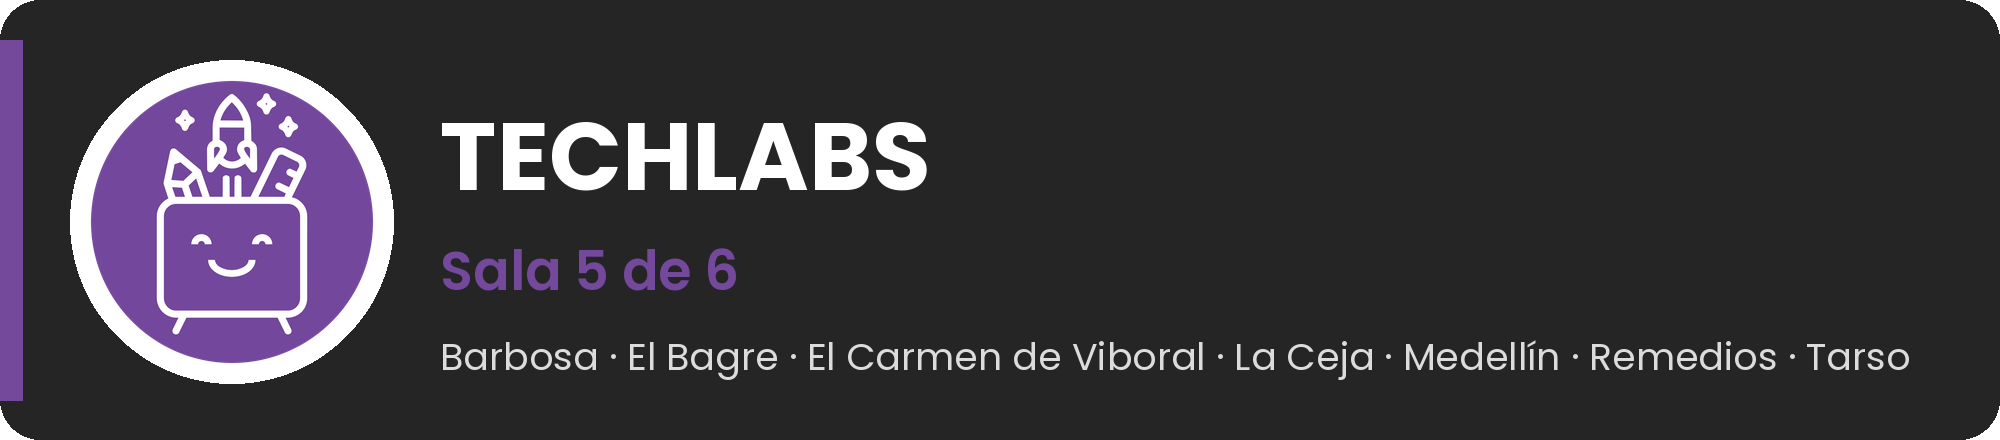
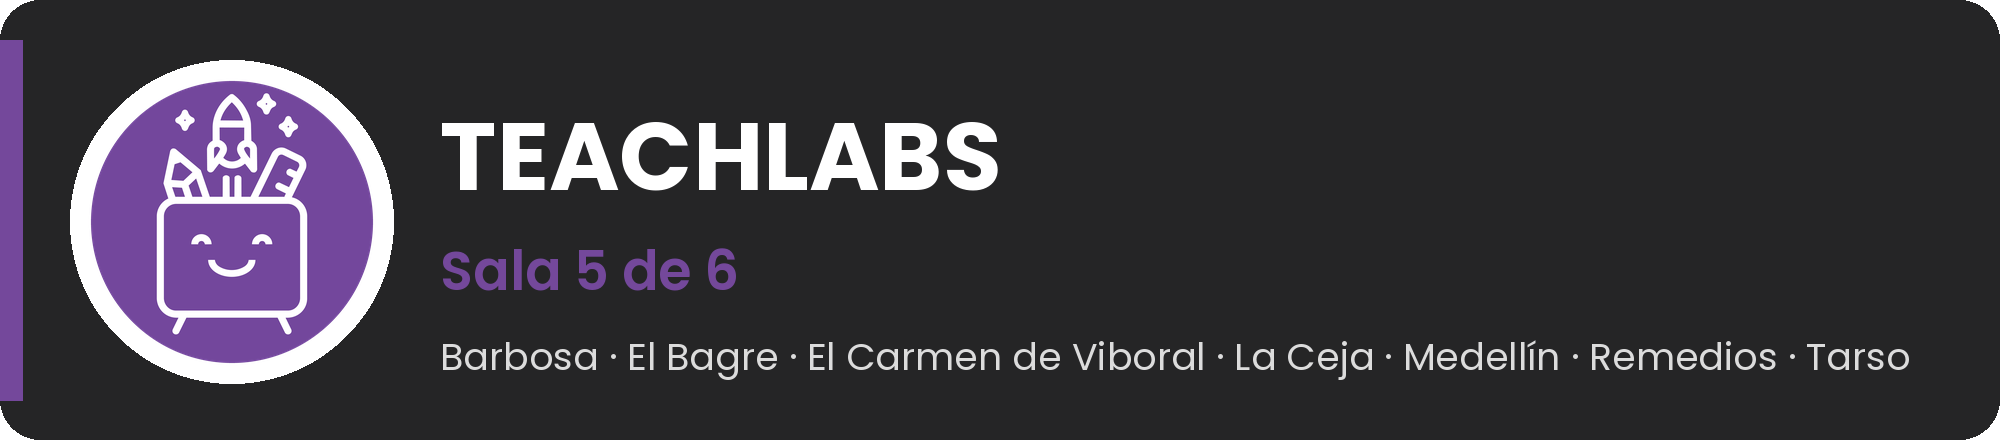
Corrige nombre: TeachLabs
Claude-Session: https://claude.ai/code/session_01GzHtwjD8CKoxuP3vnSeZWo

Changed region(s): [[0.279, 0.2659, 0.496, 0.4432]]

diff --git a/index.html b/index.html
@@ -55,7 +55,7 @@
 <script src="https://cdn.jsdelivr.net/npm/aframe@1.6.0/dist/aframe-v1.6.0.min.js"></script>
 <script>
 // datos de las salas (generado)
-const ROOMS = [{"name": "Nuevas Tecnologías", "color": "#0AABCC", "territorios": "El Carmen de Viboral · La Ceja · Medellín · Nuquí", "photos": [{"src": "img/r0_00.jpg", "ar": 0.75}, {"src": "img/r0_01.jpg", "ar": 0.75}, {"src": "img/r0_02.jpg", "ar": 0.75}, {"src": "img/r0_03.jpg", "ar": 0.75}, {"src": "img/r0_04.jpg", "ar": 1.3333}, {"src": "img/r0_05.jpg", "ar": 0.75}, {"src": "img/r0_06.jpg", "ar": 0.75}, {"src": "img/r0_07.jpg", "ar": 0.75}, {"src": "img/r0_08.jpg", "ar": 0.75}, {"src": "img/r0_09.jpg", "ar": 0.75}, {"src": "img/r0_10.jpg", "ar": 0.75}, {"src": "img/r0_11.jpg", "ar": 1.7766}, {"src": "img/r0_12.jpg", "ar": 0.75}, {"src": "img/r0_13.jpg", "ar": 0.75}, {"src": "img/r0_14.jpg", "ar": 1.3333}, {"src": "img/r0_15.jpg", "ar": 1.4159}]}, {"name": "Inglés", "color": "#EF4826", "territorios": "El Carmen de Viboral · Medellín", "photos": [{"src": "img/r1_00.jpg", "ar": 1.3333}, {"src": "img/r1_01.jpg", "ar": 0.75}, {"src": "img/r1_02.jpg", "ar": 1.3333}, {"src": "img/r1_03.jpg", "ar": 1.3333}, {"src": "img/r1_04.jpg", "ar": 0.75}, {"src": "img/r1_05.jpg", "ar": 1.3333}, {"src": "img/r1_06.jpg", "ar": 0.75}]}, {"name": "Habilidades Socioemocionales y para la Vida", "color": "#FBB317", "territorios": "Barbosa · El Bagre · El Carmen de Viboral · La Ceja · Medellín · Quibdó · Remedios · Tarso", "photos": [{"src": "img/r2_00.jpg", "ar": 1.0894}, {"src": "img/r2_01.jpg", "ar": 0.75}, {"src": "img/r2_02.jpg", "ar": 1.3333}, {"src": "img/r2_03.jpg", "ar": 0.75}, {"src": "img/r2_04.jpg", "ar": 0.75}, {"src": "img/r2_05.jpg", "ar": 0.75}, {"src": "img/r2_06.jpg", "ar": 0.75}, {"src": "img/r2_07.jpg", "ar": 1.1042}, {"src": "img/r2_08.jpg", "ar": 0.75}, {"src": "img/r2_09.jpg", "ar": 0.75}, {"src": "img/r2_10.jpg", "ar": 1.5005}, {"src": "img/r2_11.jpg", "ar": 1.5005}, {"src": "img/r2_12.jpg", "ar": 0.75}]}, {"name": "Robótica", "color": "#2F80B5", "territorios": "El Bagre · El Carmen de Viboral · La Ceja · Medellín · Nariño · Quibdó · Tarso", "photos": [{"src": "img/r3_00.jpg", "ar": 0.75}, {"src": "img/r3_01.jpg", "ar": 0.75}, {"src": "img/r3_02.jpg", "ar": 0.7507}, {"src": "img/r3_03.jpg", "ar": 0.75}, {"src": "img/r3_04.jpg", "ar": 0.75}, {"src": "img/r3_05.jpg", "ar": 0.75}, {"src": "img/r3_06.jpg", "ar": 0.75}, {"src": "img/r3_07.jpg", "ar": 0.75}, {"src": "img/r3_08.jpg", "ar": 0.75}]}, {"name": "TechLabs", "color": "#74489B", "territorios": "Barbosa · El Bagre · El Carmen de Viboral · La Ceja · Medellín · Remedios · Tarso", "photos": [{"src": "img/r4_00.jpg", "ar": 0.75}, {"src": "img/r4_01.jpg", "ar": 0.75}, {"src": "img/r4_02.jpg", "ar": 0.75}, {"src": "img/r4_03.jpg", "ar": 1.087}, {"src": "img/r4_04.jpg", "ar": 0.75}, {"src": "img/r4_05.jpg", "ar": 1.4988}, {"src": "img/r4_06.jpg", "ar": 0.75}]}, {"name": "Voluntarios y Becas", "color": "#ABD037", "territorios": "", "photos": [{"src": "img/r5_00.jpg", "ar": 0.75}, {"src": "img/r5_01.jpg", "ar": 1.3333}, {"src": "img/r5_02.jpg", "ar": 1.3356}, {"src": "img/r5_03.jpg", "ar": 1.3333}, {"src": "img/r5_04.jpg", "ar": 1.0}, {"src": "img/r5_05.jpg", "ar": 1.0}]}];
+const ROOMS = [{"name": "Nuevas Tecnologías", "color": "#0AABCC", "territorios": "El Carmen de Viboral · La Ceja · Medellín · Nuquí", "photos": [{"src": "img/r0_00.jpg", "ar": 0.75}, {"src": "img/r0_01.jpg", "ar": 0.75}, {"src": "img/r0_02.jpg", "ar": 0.75}, {"src": "img/r0_03.jpg", "ar": 0.75}, {"src": "img/r0_04.jpg", "ar": 1.3333}, {"src": "img/r0_05.jpg", "ar": 0.75}, {"src": "img/r0_06.jpg", "ar": 0.75}, {"src": "img/r0_07.jpg", "ar": 0.75}, {"src": "img/r0_08.jpg", "ar": 0.75}, {"src": "img/r0_09.jpg", "ar": 0.75}, {"src": "img/r0_10.jpg", "ar": 0.75}, {"src": "img/r0_11.jpg", "ar": 1.7766}, {"src": "img/r0_12.jpg", "ar": 0.75}, {"src": "img/r0_13.jpg", "ar": 0.75}, {"src": "img/r0_14.jpg", "ar": 1.3333}, {"src": "img/r0_15.jpg", "ar": 1.4159}]}, {"name": "Inglés", "color": "#EF4826", "territorios": "El Carmen de Viboral · Medellín", "photos": [{"src": "img/r1_00.jpg", "ar": 1.3333}, {"src": "img/r1_01.jpg", "ar": 0.75}, {"src": "img/r1_02.jpg", "ar": 1.3333}, {"src": "img/r1_03.jpg", "ar": 1.3333}, {"src": "img/r1_04.jpg", "ar": 0.75}, {"src": "img/r1_05.jpg", "ar": 1.3333}, {"src": "img/r1_06.jpg", "ar": 0.75}]}, {"name": "Habilidades Socioemocionales y para la Vida", "color": "#FBB317", "territorios": "Barbosa · El Bagre · El Carmen de Viboral · La Ceja · Medellín · Quibdó · Remedios · Tarso", "photos": [{"src": "img/r2_00.jpg", "ar": 1.0894}, {"src": "img/r2_01.jpg", "ar": 0.75}, {"src": "img/r2_02.jpg", "ar": 1.3333}, {"src": "img/r2_03.jpg", "ar": 0.75}, {"src": "img/r2_04.jpg", "ar": 0.75}, {"src": "img/r2_05.jpg", "ar": 0.75}, {"src": "img/r2_06.jpg", "ar": 0.75}, {"src": "img/r2_07.jpg", "ar": 1.1042}, {"src": "img/r2_08.jpg", "ar": 0.75}, {"src": "img/r2_09.jpg", "ar": 0.75}, {"src": "img/r2_10.jpg", "ar": 1.5005}, {"src": "img/r2_11.jpg", "ar": 1.5005}, {"src": "img/r2_12.jpg", "ar": 0.75}]}, {"name": "Robótica", "color": "#2F80B5", "territorios": "El Bagre · El Carmen de Viboral · La Ceja · Medellín · Nariño · Quibdó · Tarso", "photos": [{"src": "img/r3_00.jpg", "ar": 0.75}, {"src": "img/r3_01.jpg", "ar": 0.75}, {"src": "img/r3_02.jpg", "ar": 0.7507}, {"src": "img/r3_03.jpg", "ar": 0.75}, {"src": "img/r3_04.jpg", "ar": 0.75}, {"src": "img/r3_05.jpg", "ar": 0.75}, {"src": "img/r3_06.jpg", "ar": 0.75}, {"src": "img/r3_07.jpg", "ar": 0.75}, {"src": "img/r3_08.jpg", "ar": 0.75}]}, {"name": "TeachLabs", "color": "#74489B", "territorios": "Barbosa · El Bagre · El Carmen de Viboral · La Ceja · Medellín · Remedios · Tarso", "photos": [{"src": "img/r4_00.jpg", "ar": 0.75}, {"src": "img/r4_01.jpg", "ar": 0.75}, {"src": "img/r4_02.jpg", "ar": 0.75}, {"src": "img/r4_03.jpg", "ar": 1.087}, {"src": "img/r4_04.jpg", "ar": 0.75}, {"src": "img/r4_05.jpg", "ar": 1.4988}, {"src": "img/r4_06.jpg", "ar": 0.75}]}, {"name": "Voluntarios y Becas", "color": "#ABD037", "territorios": "", "photos": [{"src": "img/r5_00.jpg", "ar": 0.75}, {"src": "img/r5_01.jpg", "ar": 1.3333}, {"src": "img/r5_02.jpg", "ar": 1.3356}, {"src": "img/r5_03.jpg", "ar": 1.3333}, {"src": "img/r5_04.jpg", "ar": 1.0}, {"src": "img/r5_05.jpg", "ar": 1.0}]}];
 const PHOTO_H = 1.25, EYE = 1.6, ZOOM = 1.8, PULL = 1.4;
 const easeOut = x => 1 - Math.pow(1 - x, 3);
 const easeBack = x => 1 + 2.2 * Math.pow(x - 1, 3) + 1.2 * Math.pow(x - 1, 2);
